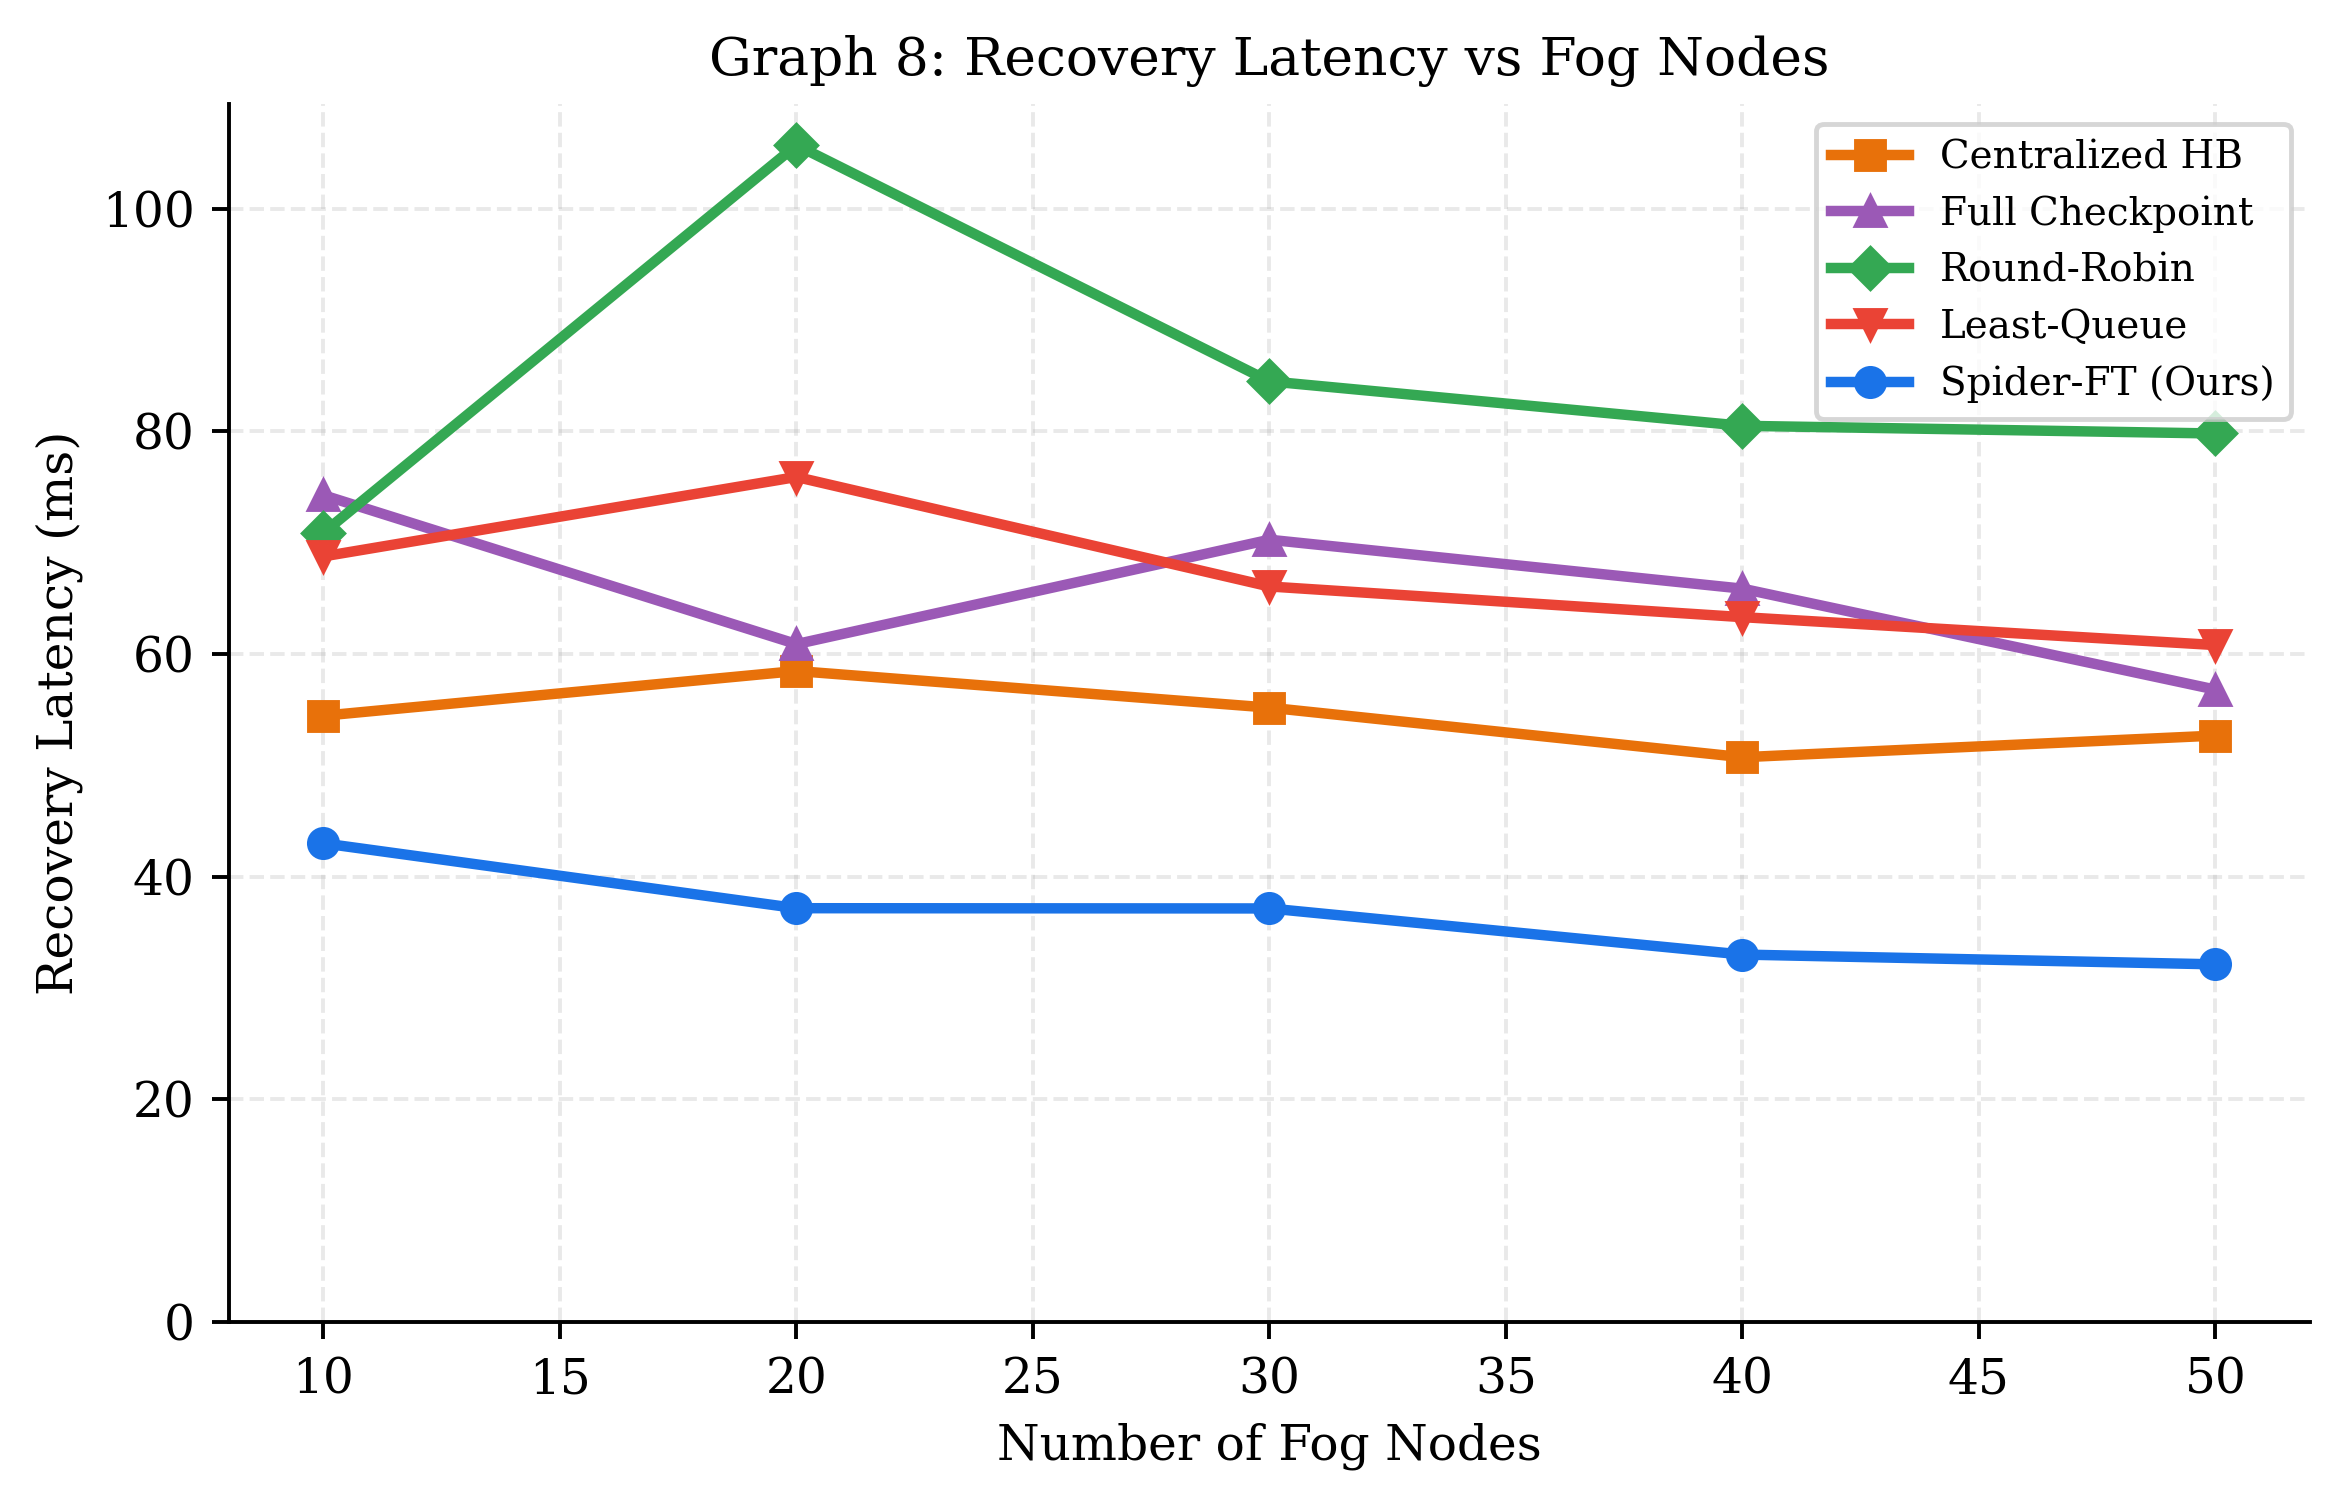
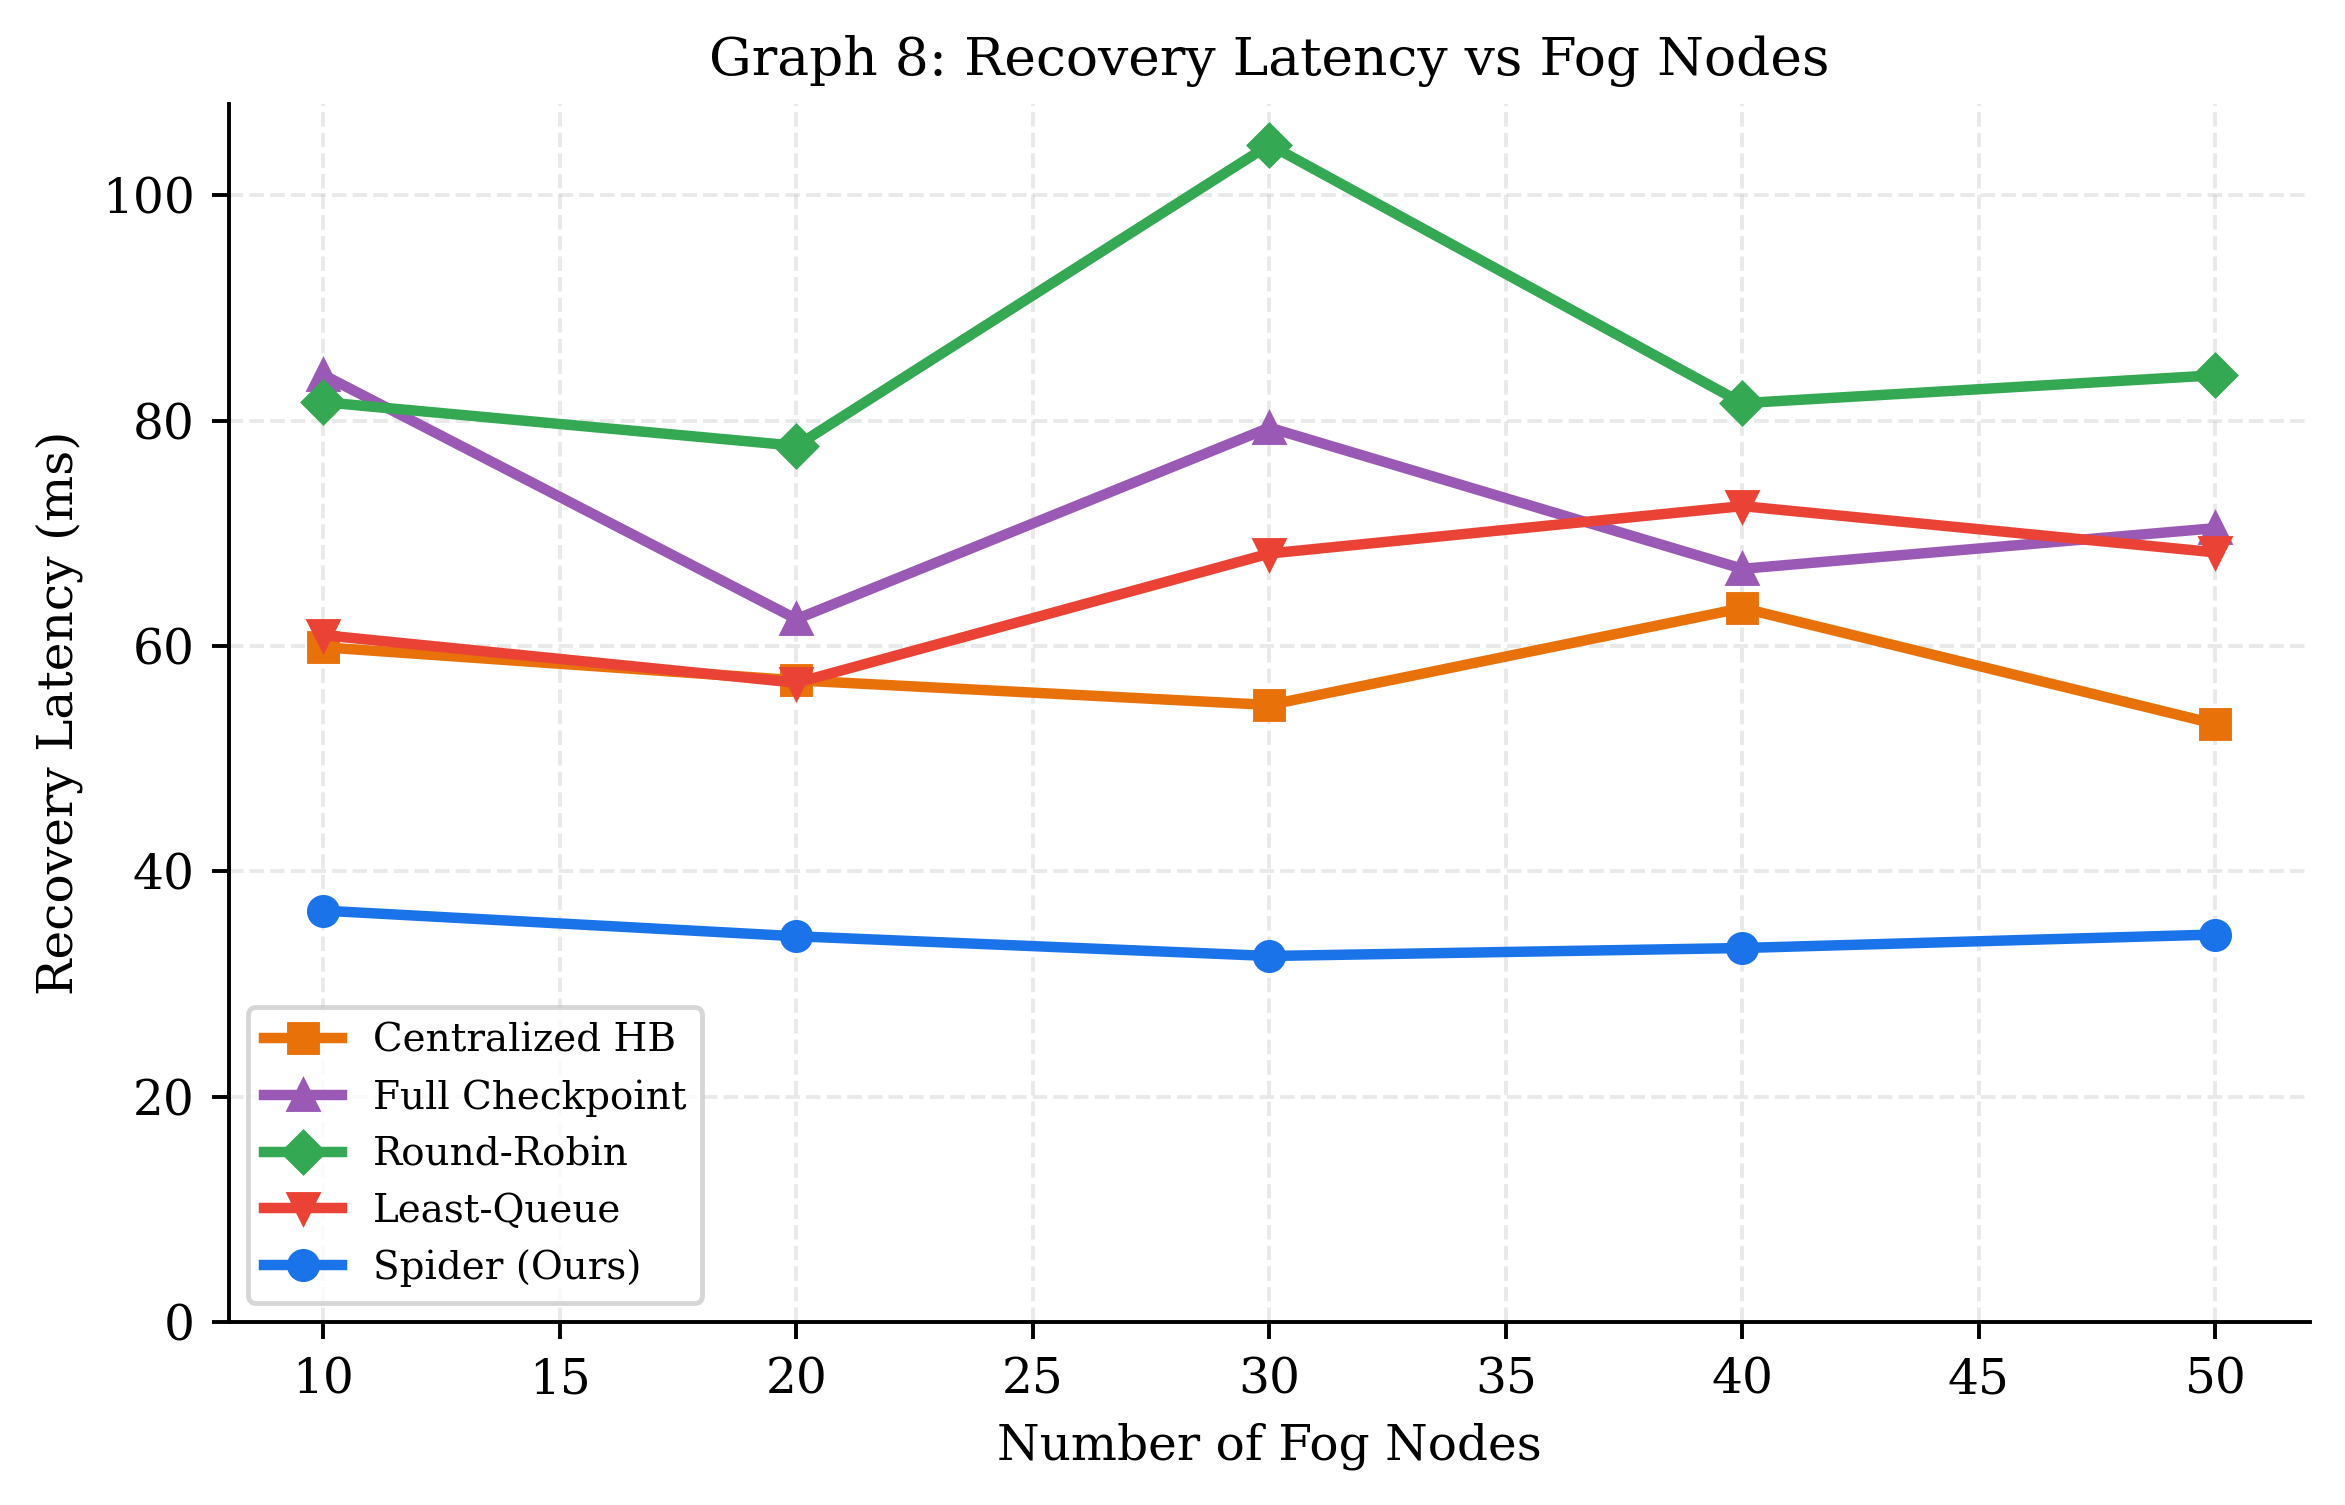
G8_N_TASKS = 1000

diff --git a/graphs/graph8.py b/graphs/graph8.py
@@ -115,7 +115,7 @@ def _run_heartbeat_simulation(
     heartbeat_interval = 10.0  # ms between heartbeat rounds
     max_rounds = 40
 
-    if strategy == "Spider-FT (Ours)":
+    if strategy == "Spider (Ours)":
         groups = partition_into_groups(states)
         node_to_group = {}
         for g in groups:
@@ -260,7 +260,7 @@ STRATEGY_NAMES = [
     "Full Checkpoint",
     "Round-Robin",
     "Least-Queue",
-    "Spider-FT (Ours)",
+    "Spider (Ours)",
 ]
 
 
@@ -355,7 +355,7 @@ def _run_scenario(n_nodes: int, failure_rate: float, seed: int) -> Dict:
                     if not alive_states:
                         continue
                     # Redirect to healthy node using the strategy's scheduler
-                    if strategy == "Spider-FT (Ours)":
+                    if strategy == "Spider (Ours)":
                         node = choose_node([s.fog_node for s in alive_states], task, "Spider (Ours)", strat_rng)
                     elif strategy == "Least-Queue":
                         best = min(alive_states, key=lambda s: s.fog_node.assigned_count)
@@ -383,7 +383,7 @@ def _run_scenario(n_nodes: int, failure_rate: float, seed: int) -> Dict:
                 if not alive_states:
                     continue
 
-                if strategy == "Spider-FT (Ours)":
+                if strategy == "Spider (Ours)":
                     restart_fraction = max(0.05, 1.0 - progress[idx])
                     control_msgs += 1
                     recovery_state = select_recovery_node(

diff --git a/config.py b/config.py
@@ -211,7 +211,7 @@ CHECKPOINT_SYNC_OVERHEAD_MS = 15.0
 CENTRALIZED_EXTRA_DELAY_MS = 8.0
 
 # Recovery simulation parameters (Graph 8-9)
-G8_N_TASKS = 200                     # Number of tasks to simulate per scenario
+G8_N_TASKS = 1000                    # Number of tasks to simulate per scenario
 # Average checkpoint progress: checkpoints taken every CHECKPOINT_INTERVAL_MS
 # (100ms). Under offered_load ≈ 1.0, average task service time is ~56ms
 # (Phase 5 measured). Failure occurs uniformly within the checkpoint